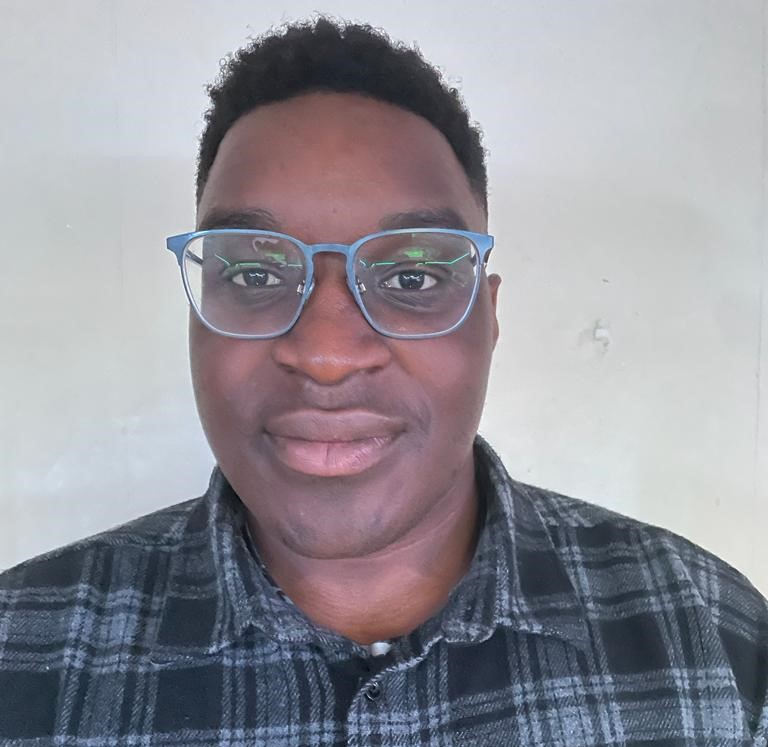
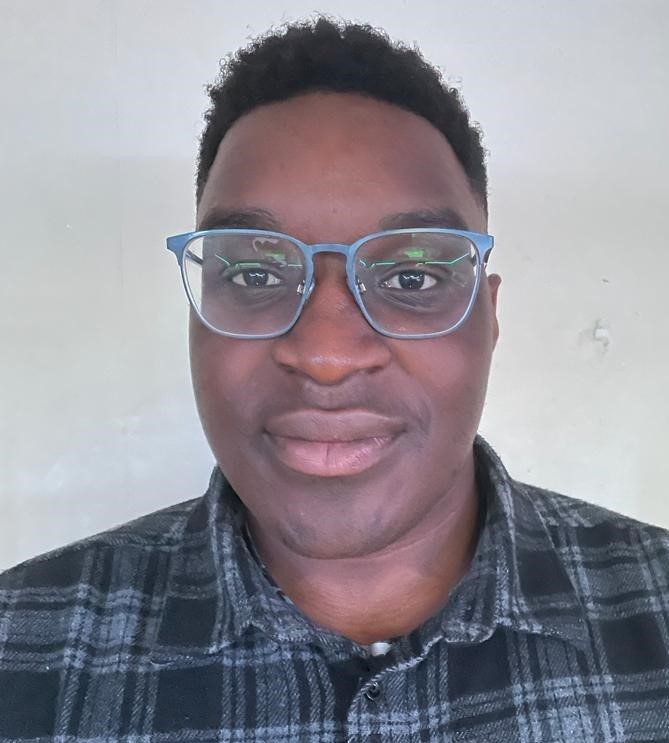
profile pic pulse

diff --git a/portfolio/src/App.css b/portfolio/src/App.css
@@ -67,6 +67,89 @@ display: inline-block;
       border-color: transparent 
   }
   50% { 
-      border-color: orange; 
+      border-color: rgb(255, 165, 0); 
   }
 }
+
+@keyframes pulse {
+  0%, 100% {
+    transform: scale(1);
+  }
+  50% {
+    transform: scale(1.05);
+  }
+}
+
+.animate-pulse {
+  animation: pulse 2s infinite;
+}
+
+@keyframes pulse-border {
+  0%, 100% {
+    transform: scale(1);
+    border-width: 4px;
+  }
+  50% {
+    transform: scale(1.2);
+    border-width: 8px;
+  }
+}
+
+.animate-pulse-border {
+  animation: pulse-border 2s infinite;
+}
+
+@keyframes pulse-border {
+  0%, 100% {
+    transform: scale(1);
+    border-width: 4px;
+    opacity: 0;
+  }
+  50% {
+    transform: scale(1.2);
+    border-width: 8px;
+    opacity: 1;
+  }
+}
+
+.animate-pulse-border {
+  animation: pulse-border 2s infinite;
+  border: 4px solid transparent; /* Add transparent border to avoid gap */
+  border-radius: 50%;
+  position: absolute;
+  top: -4px; /* Adjust to cover profile picture */
+  right: -4px; /* Adjust to cover profile picture */
+  bottom: -4px; /* Adjust to cover profile picture */
+  left: -4px; /* Adjust to cover profile picture */
+}
+
+@keyframes animate-dot {
+  0%, 100% {
+    opacity: 0;
+  }
+  50% {
+    opacity: 1;
+  }
+}
+
+.bg-dark {
+  background-color: rgb(4, 28, 76);
+}
+
+.dot {
+  position: absolute;
+  width: 8px;
+  height: 8px;
+  border-radius: 50%;
+  background-color: rgba(255, 255, 255, 0.2);
+  animation: animate-dot 1.5s infinite;
+}
+
+.line {
+  position: absolute;
+  background-color: rgba(255, 255, 255, 0.2);
+  transform-origin: 0% 50%;
+}
+
+
+

diff --git a/portfolio/src/components/home.tsx b/portfolio/src/components/home.tsx
@@ -12,7 +12,7 @@ const HomePage = () => {
 
   const [typingText, setTypingText] = useState('');
   const [displayedText, setDisplayedText] = useState('');
-
+  
   useEffect(() => {
     const interval = setInterval(() => {
       if (typingText.length === 0) {
@@ -37,6 +37,7 @@ const HomePage = () => {
   return (
     <div className="bg-gray-100 min-h-screen flex items-center justify-center">
       <div className="max-w-8xl mx-auto p-8 grid grid-cols-3 gap-24 items-center">
+        
         <div className="col-span-2">
           <h1 className="text-4xl font-semibold mb-4">
             Hello! 👋 My name is<br />
@@ -60,7 +61,9 @@ const HomePage = () => {
           </div>
         </div>
         <div className="col-span-1 text-right">
-          <img src={profile} className="w-64 h-64 rounded-full shadow-xl" alt="Profile" />
+            <div className="border-4 border-orange-400 rounded-full p-0 animate-pulse">
+                <img src={profile} className="w-64 h-64 rounded-full shadow-xl" alt="Profile" />
+            </div>
         </div>
       </div>
     </div>
